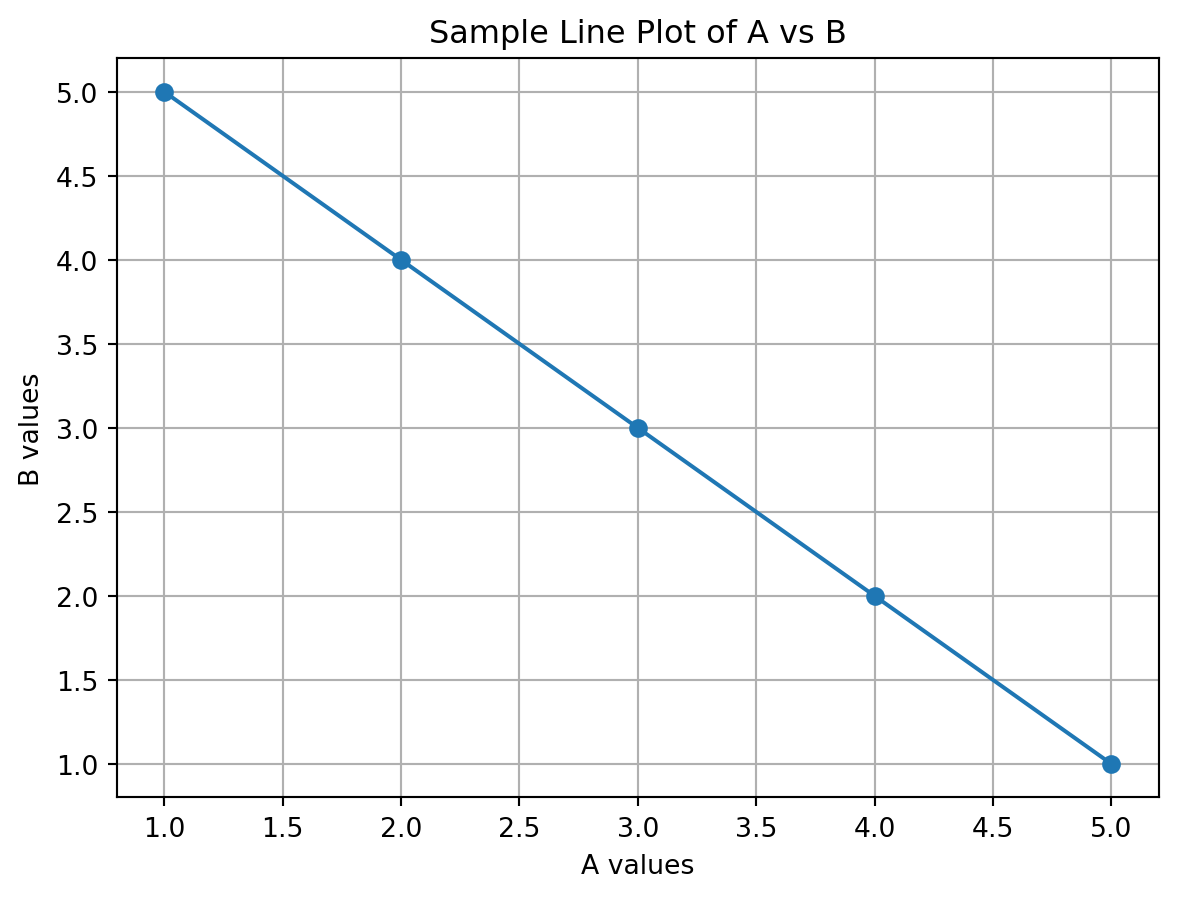
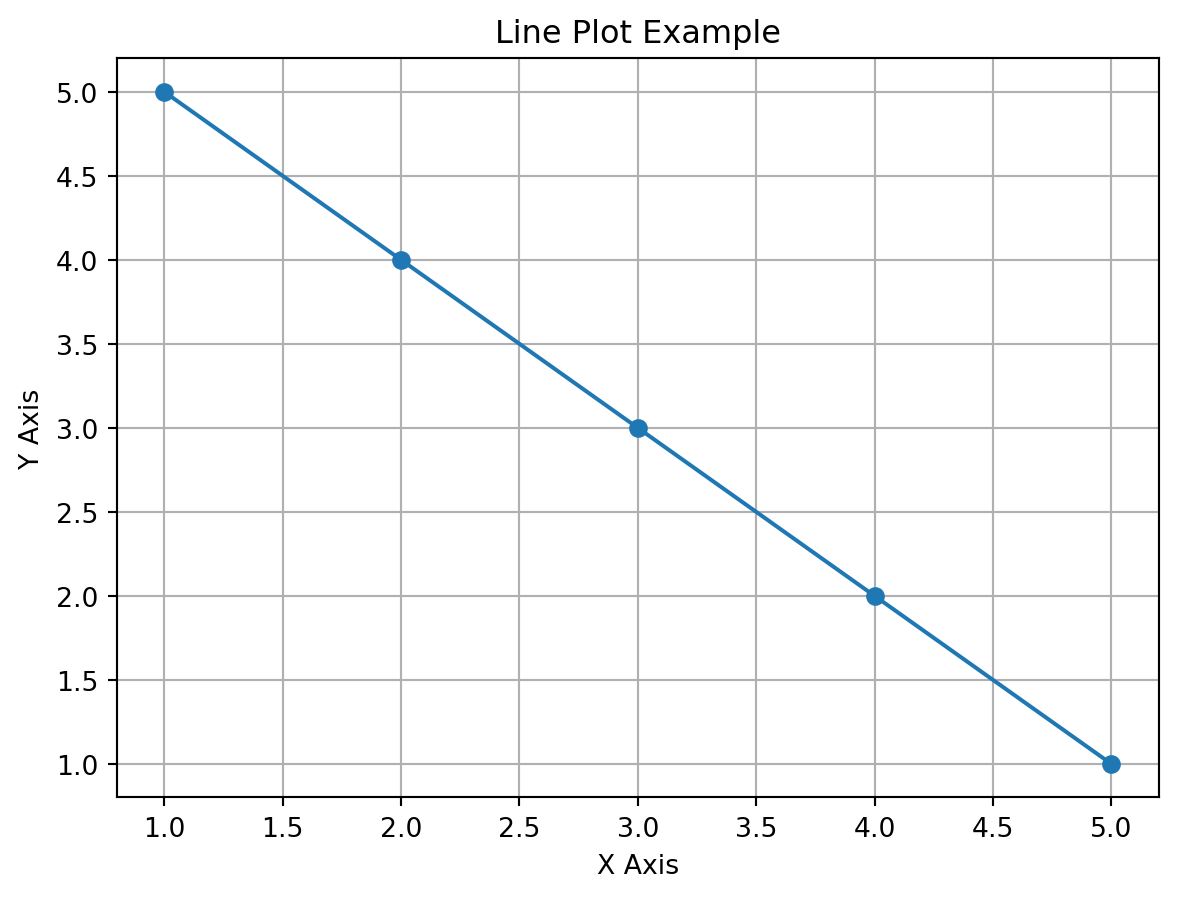
Final version of Project 1 with embedded video

Changed region(s): [[0.367, 0.0, 0.7341, 0.0624], [0.4894, 0.9354, 0.5811, 0.9978], [0.0, 0.4053, 0.0306, 0.5301]]

diff --git a/docs/projects/project1.html b/docs/projects/project1.html
@@ -7,7 +7,7 @@
 <meta name="viewport" content="width=device-width, initial-scale=1.0, user-scalable=yes">
 
 
-<title>Project 1: Data Analysis with Pandas – Conor-English.github.io</title>
+<title>Project 1: Predicting Breakout Footballers with Machine Learning – Conor-English.github.io</title>
 <style>
 code{white-space: pre-wrap;}
 span.smallcaps{font-variant: small-caps;}
@@ -158,9 +158,13 @@ pre > code.sourceCode > span > a:first-child::before { text-decoration: underlin
     <h2 id="toc-title">On this page</h2>
    
   <ul>
-  <li><a href="#overview" id="toc-overview" class="nav-link active" data-scroll-target="#overview">Overview</a></li>
-  <li><a href="#skills-demonstrated" id="toc-skills-demonstrated" class="nav-link" data-scroll-target="#skills-demonstrated">Skills Demonstrated</a></li>
-  <li><a href="#key-code-example" id="toc-key-code-example" class="nav-link" data-scroll-target="#key-code-example">Key Code Example</a>
+  <li><a href="#overview" id="toc-overview" class="nav-link active" data-scroll-target="#overview">⚽ Overview</a></li>
+  <li><a href="#skills-demonstrated" id="toc-skills-demonstrated" class="nav-link" data-scroll-target="#skills-demonstrated">🛠 Skills Demonstrated</a></li>
+  <li><a href="#dataset-and-features" id="toc-dataset-and-features" class="nav-link" data-scroll-target="#dataset-and-features">📊 Dataset and Features</a></li>
+  <li><a href="#model-pipeline" id="toc-model-pipeline" class="nav-link" data-scroll-target="#model-pipeline">🤖 Model Pipeline</a></li>
+  <li><a href="#interpretability-with-shap" id="toc-interpretability-with-shap" class="nav-link" data-scroll-target="#interpretability-with-shap">🔍 Interpretability with SHAP</a></li>
+  <li><a href="#download-files" id="toc-download-files" class="nav-link" data-scroll-target="#download-files">📦 Download Files</a></li>
+  <li><a href="#key-code-example" id="toc-key-code-example" class="nav-link" data-scroll-target="#key-code-example">🧪 Key Code Example</a>
   <ul class="collapse">
   <li><a href="#video-walkthrough" id="toc-video-walkthrough" class="nav-link" data-scroll-target="#video-walkthrough">🎬 Video Walkthrough</a></li>
   </ul></li>
@@ -172,7 +176,7 @@ pre > code.sourceCode > span > a:first-child::before { text-decoration: underlin
 
 <header id="title-block-header" class="quarto-title-block default">
 <div class="quarto-title">
-<div class="quarto-title-block"><div><h1 class="title">Project 1: Data Analysis with Pandas</h1><button type="button" class="btn code-tools-button dropdown-toggle" id="quarto-code-tools-menu" data-bs-toggle="dropdown" aria-expanded="false"><i class="bi"></i> Code</button><ul class="dropdown-menu dropdown-menu-end" aria-labelelledby="quarto-code-tools-menu"><li><a id="quarto-show-all-code" class="dropdown-item" href="javascript:void(0)" role="button">Show All Code</a></li><li><a id="quarto-hide-all-code" class="dropdown-item" href="javascript:void(0)" role="button">Hide All Code</a></li><li><hr class="dropdown-divider"></li><li><a id="quarto-view-source" class="dropdown-item" href="javascript:void(0)" role="button">View Source</a></li></ul></div></div>
+<div class="quarto-title-block"><div><h1 class="title">Project 1: Predicting Breakout Footballers with Machine Learning</h1><button type="button" class="btn code-tools-button dropdown-toggle" id="quarto-code-tools-menu" data-bs-toggle="dropdown" aria-expanded="false"><i class="bi"></i> Code</button><ul class="dropdown-menu dropdown-menu-end" aria-labelelledby="quarto-code-tools-menu"><li><a id="quarto-show-all-code" class="dropdown-item" href="javascript:void(0)" role="button">Show All Code</a></li><li><a id="quarto-hide-all-code" class="dropdown-item" href="javascript:void(0)" role="button">Hide All Code</a></li><li><hr class="dropdown-divider"></li><li><a id="quarto-view-source" class="dropdown-item" href="javascript:void(0)" role="button">View Source</a></li></ul></div></div>
 </div>
 
 
@@ -190,39 +194,103 @@ pre > code.sourceCode > span > a:first-child::before { text-decoration: underlin
 
 
 <section id="overview" class="level1">
-<h1>Overview</h1>
-<p>In this project, I analyzed real-world datasets using <strong>Python</strong> and <strong>Pandas</strong> to extract meaningful insights.</p>
+<h1>⚽ Overview</h1>
+<p>In this project, I built a machine learning pipeline to <strong>predict breakout football players</strong>—those expected to drastically improve their goals or assists in the coming season. This was done using real-world player statistics and advanced ML interpretability tools like SHAP.</p>
+<p>The project used <strong>over 10 million data points</strong> and statistics from <strong>2013 to April 2025</strong>, and was built to support recruitment workflows like those used by clubs such as Brighton or Liverpool.</p>
 </section>
 <section id="skills-demonstrated" class="level1">
-<h1>Skills Demonstrated</h1>
+<h1>🛠 Skills Demonstrated</h1>
 <ul>
-<li>Data Cleaning</li>
-<li>Data Manipulation</li>
-<li>Exploratory Data Analysis (EDA)</li>
+<li>Feature engineering on sports datasets<br>
+</li>
+<li>Label construction with domain-specific logic<br>
+</li>
+<li>Model selection and cross-validation<br>
+</li>
+<li>XGBoost classification<br>
+</li>
+<li>SHAP explainability and visual interpretation<br>
+</li>
+<li>Real-world forecasting for 2025/26 season</li>
+</ul>
+</section>
+<section id="dataset-and-features" class="level1">
+<h1>📊 Dataset and Features</h1>
+<p>The dataset came from <a href="https://www.transfermarkt.com/">Transfermarkt</a> via Kaggle and included:</p>
+<ul>
+<li>Player stats: goals, assists, minutes, appearances<br>
+</li>
+<li>Temporal metrics: prior season stats and growth<br>
+</li>
+<li>Per-90 stats and scaled features<br>
+</li>
+<li>Demographics: position, age, birth year</li>
+</ul>
+<p>Key features used: - <code>goal_growth</code>, <code>assist_growth</code><br>
+- <code>goals_per90</code>, <code>assists_per90</code><br>
+- <code>prev_goals</code>, <code>minutes_played</code>, <code>appearances</code></p>
+</section>
+<section id="model-pipeline" class="level1">
+<h1>🤖 Model Pipeline</h1>
+<ul>
+<li>Model: XGBoost Classifier<br>
+</li>
+<li>Training: 80/20 split with 5-fold CV<br>
+</li>
+<li>Performance:
+<ul>
+<li>Accuracy: <strong>91.03%</strong><br>
+</li>
+<li>F1-score (Breakout class): <strong>0.61</strong><br>
+</li>
+<li>Macro F1: <strong>0.78</strong><br>
+</li>
+<li>ROC AUC: <strong>&gt; 0.90</strong></li>
+</ul></li>
+</ul>
+<p>Evaluation visualizations include: - ROC curve<br>
+- Confusion matrix<br>
+- SHAP summary and importance plots<br>
+- Histogram of predicted breakout probabilities</p>
+</section>
+<section id="interpretability-with-shap" class="level1">
+<h1>🔍 Interpretability with SHAP</h1>
+<p>SHAP values revealed: - <code>goal_growth</code>, <code>assist_growth</code>, and <code>assists</code> were the <strong>top predictors</strong><br>
+- Visual plots showed how player features like minutes and appearances contribute to breakout probability<br>
+- SHAP dependence plots gave intuitive, position-specific breakdowns</p>
+</section>
+<section id="download-files" class="level1">
+<h1>📦 Download Files</h1>
+<ul>
+<li>🔗 <a href="../top_20_future_predicted_breakouts_2526.csv">Download future model predictions (Top 20)</a></li>
+<li>💾 <a href="../Future breakthrough model.ipynb">Download future breakout model source code</a></li>
 </ul>
 </section>
 <section id="key-code-example" class="level1">
-<h1>Key Code Example</h1>
-<div id="46febf76" class="cell" data-execution_count="1">
+<h1>🧪 Key Code Example</h1>
+<div id="fd690b56" class="cell" data-execution_count="1">
 <details class="code-fold">
 <summary>Show the code</summary>
 <div class="sourceCode cell-code" id="cb1"><pre class="sourceCode python code-with-copy"><code class="sourceCode python"><span id="cb1-1"><a href="#cb1-1" aria-hidden="true" tabindex="-1"></a><span class="im">import</span> pandas <span class="im">as</span> pd</span>
 <span id="cb1-2"><a href="#cb1-2" aria-hidden="true" tabindex="-1"></a><span class="im">import</span> matplotlib.pyplot <span class="im">as</span> plt</span>
 <span id="cb1-3"><a href="#cb1-3" aria-hidden="true" tabindex="-1"></a></span>
-<span id="cb1-4"><a href="#cb1-4" aria-hidden="true" tabindex="-1"></a>df <span class="op">=</span> pd.DataFrame({</span>
-<span id="cb1-5"><a href="#cb1-5" aria-hidden="true" tabindex="-1"></a>    <span class="st">"A"</span>: [<span class="dv">1</span>, <span class="dv">2</span>, <span class="dv">3</span>, <span class="dv">4</span>, <span class="dv">5</span>],</span>
-<span id="cb1-6"><a href="#cb1-6" aria-hidden="true" tabindex="-1"></a>    <span class="st">"B"</span>: [<span class="dv">5</span>, <span class="dv">4</span>, <span class="dv">3</span>, <span class="dv">2</span>, <span class="dv">1</span>]</span>
-<span id="cb1-7"><a href="#cb1-7" aria-hidden="true" tabindex="-1"></a>})</span>
-<span id="cb1-8"><a href="#cb1-8" aria-hidden="true" tabindex="-1"></a></span>
-<span id="cb1-9"><a href="#cb1-9" aria-hidden="true" tabindex="-1"></a>summary <span class="op">=</span> df.describe()</span>
-<span id="cb1-10"><a href="#cb1-10" aria-hidden="true" tabindex="-1"></a>summary</span>
-<span id="cb1-11"><a href="#cb1-11" aria-hidden="true" tabindex="-1"></a></span>
-<span id="cb1-12"><a href="#cb1-12" aria-hidden="true" tabindex="-1"></a>plt.plot(df[<span class="st">"A"</span>], df[<span class="st">"B"</span>], marker<span class="op">=</span><span class="st">"o"</span>)</span>
-<span id="cb1-13"><a href="#cb1-13" aria-hidden="true" tabindex="-1"></a>plt.title(<span class="st">"Sample Line Plot of A vs B"</span>)</span>
-<span id="cb1-14"><a href="#cb1-14" aria-hidden="true" tabindex="-1"></a>plt.xlabel(<span class="st">"A values"</span>)</span>
-<span id="cb1-15"><a href="#cb1-15" aria-hidden="true" tabindex="-1"></a>plt.ylabel(<span class="st">"B values"</span>)</span>
-<span id="cb1-16"><a href="#cb1-16" aria-hidden="true" tabindex="-1"></a>plt.grid(<span class="va">True</span>)</span>
-<span id="cb1-17"><a href="#cb1-17" aria-hidden="true" tabindex="-1"></a>plt.show()</span></code><button title="Copy to Clipboard" class="code-copy-button"><i class="bi"></i></button></pre></div>
+<span id="cb1-4"><a href="#cb1-4" aria-hidden="true" tabindex="-1"></a><span class="co"># Sample player data</span></span>
+<span id="cb1-5"><a href="#cb1-5" aria-hidden="true" tabindex="-1"></a>df <span class="op">=</span> pd.DataFrame({</span>
+<span id="cb1-6"><a href="#cb1-6" aria-hidden="true" tabindex="-1"></a>    <span class="st">"A"</span>: [<span class="dv">1</span>, <span class="dv">2</span>, <span class="dv">3</span>, <span class="dv">4</span>, <span class="dv">5</span>],</span>
+<span id="cb1-7"><a href="#cb1-7" aria-hidden="true" tabindex="-1"></a>    <span class="st">"B"</span>: [<span class="dv">5</span>, <span class="dv">4</span>, <span class="dv">3</span>, <span class="dv">2</span>, <span class="dv">1</span>]</span>
+<span id="cb1-8"><a href="#cb1-8" aria-hidden="true" tabindex="-1"></a>})</span>
+<span id="cb1-9"><a href="#cb1-9" aria-hidden="true" tabindex="-1"></a></span>
+<span id="cb1-10"><a href="#cb1-10" aria-hidden="true" tabindex="-1"></a><span class="co"># Quick stats summary</span></span>
+<span id="cb1-11"><a href="#cb1-11" aria-hidden="true" tabindex="-1"></a>summary <span class="op">=</span> df.describe()</span>
+<span id="cb1-12"><a href="#cb1-12" aria-hidden="true" tabindex="-1"></a>summary</span>
+<span id="cb1-13"><a href="#cb1-13" aria-hidden="true" tabindex="-1"></a></span>
+<span id="cb1-14"><a href="#cb1-14" aria-hidden="true" tabindex="-1"></a><span class="co"># Sample plot</span></span>
+<span id="cb1-15"><a href="#cb1-15" aria-hidden="true" tabindex="-1"></a>plt.plot(df[<span class="st">"A"</span>], df[<span class="st">"B"</span>], marker<span class="op">=</span><span class="st">"o"</span>)</span>
+<span id="cb1-16"><a href="#cb1-16" aria-hidden="true" tabindex="-1"></a>plt.title(<span class="st">"Line Plot Example"</span>)</span>
+<span id="cb1-17"><a href="#cb1-17" aria-hidden="true" tabindex="-1"></a>plt.xlabel(<span class="st">"X Axis"</span>)</span>
+<span id="cb1-18"><a href="#cb1-18" aria-hidden="true" tabindex="-1"></a>plt.ylabel(<span class="st">"Y Axis"</span>)</span>
+<span id="cb1-19"><a href="#cb1-19" aria-hidden="true" tabindex="-1"></a>plt.grid(<span class="va">True</span>)</span>
+<span id="cb1-20"><a href="#cb1-20" aria-hidden="true" tabindex="-1"></a>plt.show()</span></code><button title="Copy to Clipboard" class="code-copy-button"><i class="bi"></i></button></pre></div>
 </details>
 <div class="cell-output cell-output-display">
 <div>
@@ -713,7 +781,7 @@ window.document.addEventListener("DOMContentLoaded", function (event) {
 });
 </script><div class="modal fade" id="quarto-embedded-source-code-modal" tabindex="-1" aria-labelledby="quarto-embedded-source-code-modal-label" aria-hidden="true"><div class="modal-dialog modal-dialog-scrollable"><div class="modal-content"><div class="modal-header"><h5 class="modal-title" id="quarto-embedded-source-code-modal-label">Source Code</h5><button class="btn-close" data-bs-dismiss="modal"></button></div><div class="modal-body"><div class="">
 <div class="sourceCode" id="cb2" data-shortcodes="false"><pre class="sourceCode markdown code-with-copy"><code class="sourceCode markdown"><span id="cb2-1"><a href="#cb2-1" aria-hidden="true" tabindex="-1"></a><span class="co">---</span></span>
-<span id="cb2-2"><a href="#cb2-2" aria-hidden="true" tabindex="-1"></a><span class="an">title:</span><span class="co"> "Project 1: Data Analysis with Pandas"</span></span>
+<span id="cb2-2"><a href="#cb2-2" aria-hidden="true" tabindex="-1"></a><span class="an">title:</span><span class="co"> "Project 1: Predicting Breakout Footballers with Machine Learning"</span></span>
 <span id="cb2-3"><a href="#cb2-3" aria-hidden="true" tabindex="-1"></a><span class="an">format:</span></span>
 <span id="cb2-4"><a href="#cb2-4" aria-hidden="true" tabindex="-1"></a><span class="co">  html:</span></span>
 <span id="cb2-5"><a href="#cb2-5" aria-hidden="true" tabindex="-1"></a><span class="co">    code-fold: true</span></span>
@@ -724,40 +792,91 @@ window.document.addEventListener("DOMContentLoaded", function (event) {
 <span id="cb2-10"><a href="#cb2-10" aria-hidden="true" tabindex="-1"></a><span class="co">  eval: true</span></span>
 <span id="cb2-11"><a href="#cb2-11" aria-hidden="true" tabindex="-1"></a><span class="co">---</span></span>
 <span id="cb2-12"><a href="#cb2-12" aria-hidden="true" tabindex="-1"></a></span>
-<span id="cb2-13"><a href="#cb2-13" aria-hidden="true" tabindex="-1"></a><span class="fu"># Overview</span></span>
-<span id="cb2-14"><a href="#cb2-14" aria-hidden="true" tabindex="-1"></a>In this project, I analyzed real-world datasets using **Python** and **Pandas** to extract meaningful insights.</span>
-<span id="cb2-15"><a href="#cb2-15" aria-hidden="true" tabindex="-1"></a></span>
-<span id="cb2-16"><a href="#cb2-16" aria-hidden="true" tabindex="-1"></a><span class="fu"># Skills Demonstrated</span></span>
-<span id="cb2-17"><a href="#cb2-17" aria-hidden="true" tabindex="-1"></a><span class="ss">- </span>Data Cleaning</span>
-<span id="cb2-18"><a href="#cb2-18" aria-hidden="true" tabindex="-1"></a><span class="ss">- </span>Data Manipulation</span>
-<span id="cb2-19"><a href="#cb2-19" aria-hidden="true" tabindex="-1"></a><span class="ss">- </span>Exploratory Data Analysis (EDA)</span>
+<span id="cb2-13"><a href="#cb2-13" aria-hidden="true" tabindex="-1"></a><span class="fu"># ⚽ Overview</span></span>
+<span id="cb2-14"><a href="#cb2-14" aria-hidden="true" tabindex="-1"></a></span>
+<span id="cb2-15"><a href="#cb2-15" aria-hidden="true" tabindex="-1"></a>In this project, I built a machine learning pipeline to **predict breakout football players**—those expected to drastically improve their goals or assists in the coming season. This was done using real-world player statistics and advanced ML interpretability tools like SHAP.</span>
+<span id="cb2-16"><a href="#cb2-16" aria-hidden="true" tabindex="-1"></a></span>
+<span id="cb2-17"><a href="#cb2-17" aria-hidden="true" tabindex="-1"></a>The project used **over 10 million data points** and statistics from **2013 to April 2025**, and was built to support recruitment workflows like those used by clubs such as Brighton or Liverpool.</span>
+<span id="cb2-18"><a href="#cb2-18" aria-hidden="true" tabindex="-1"></a></span>
+<span id="cb2-19"><a href="#cb2-19" aria-hidden="true" tabindex="-1"></a><span class="fu"># 🛠 Skills Demonstrated</span></span>
 <span id="cb2-20"><a href="#cb2-20" aria-hidden="true" tabindex="-1"></a></span>
-<span id="cb2-21"><a href="#cb2-21" aria-hidden="true" tabindex="-1"></a><span class="fu"># Key Code Example</span></span>
-<span id="cb2-22"><a href="#cb2-22" aria-hidden="true" tabindex="-1"></a></span>
-<span id="cb2-25"><a href="#cb2-25" aria-hidden="true" tabindex="-1"></a><span class="in">```{python}</span></span>
-<span id="cb2-26"><a href="#cb2-26" aria-hidden="true" tabindex="-1"></a><span class="im">import</span> pandas <span class="im">as</span> pd</span>
-<span id="cb2-27"><a href="#cb2-27" aria-hidden="true" tabindex="-1"></a><span class="im">import</span> matplotlib.pyplot <span class="im">as</span> plt</span>
-<span id="cb2-28"><a href="#cb2-28" aria-hidden="true" tabindex="-1"></a></span>
-<span id="cb2-29"><a href="#cb2-29" aria-hidden="true" tabindex="-1"></a>df <span class="op">=</span> pd.DataFrame({</span>
-<span id="cb2-30"><a href="#cb2-30" aria-hidden="true" tabindex="-1"></a>    <span class="st">"A"</span>: [<span class="dv">1</span>, <span class="dv">2</span>, <span class="dv">3</span>, <span class="dv">4</span>, <span class="dv">5</span>],</span>
-<span id="cb2-31"><a href="#cb2-31" aria-hidden="true" tabindex="-1"></a>    <span class="st">"B"</span>: [<span class="dv">5</span>, <span class="dv">4</span>, <span class="dv">3</span>, <span class="dv">2</span>, <span class="dv">1</span>]</span>
-<span id="cb2-32"><a href="#cb2-32" aria-hidden="true" tabindex="-1"></a>})</span>
-<span id="cb2-33"><a href="#cb2-33" aria-hidden="true" tabindex="-1"></a></span>
-<span id="cb2-34"><a href="#cb2-34" aria-hidden="true" tabindex="-1"></a>summary <span class="op">=</span> df.describe()</span>
-<span id="cb2-35"><a href="#cb2-35" aria-hidden="true" tabindex="-1"></a>summary</span>
+<span id="cb2-21"><a href="#cb2-21" aria-hidden="true" tabindex="-1"></a><span class="ss">- </span>Feature engineering on sports datasets  </span>
+<span id="cb2-22"><a href="#cb2-22" aria-hidden="true" tabindex="-1"></a><span class="ss">- </span>Label construction with domain-specific logic  </span>
+<span id="cb2-23"><a href="#cb2-23" aria-hidden="true" tabindex="-1"></a><span class="ss">- </span>Model selection and cross-validation  </span>
+<span id="cb2-24"><a href="#cb2-24" aria-hidden="true" tabindex="-1"></a><span class="ss">- </span>XGBoost classification  </span>
+<span id="cb2-25"><a href="#cb2-25" aria-hidden="true" tabindex="-1"></a><span class="ss">- </span>SHAP explainability and visual interpretation  </span>
+<span id="cb2-26"><a href="#cb2-26" aria-hidden="true" tabindex="-1"></a><span class="ss">- </span>Real-world forecasting for 2025/26 season  </span>
+<span id="cb2-27"><a href="#cb2-27" aria-hidden="true" tabindex="-1"></a></span>
+<span id="cb2-28"><a href="#cb2-28" aria-hidden="true" tabindex="-1"></a><span class="fu"># 📊 Dataset and Features</span></span>
+<span id="cb2-29"><a href="#cb2-29" aria-hidden="true" tabindex="-1"></a></span>
+<span id="cb2-30"><a href="#cb2-30" aria-hidden="true" tabindex="-1"></a>The dataset came from <span class="co">[</span><span class="ot">Transfermarkt</span><span class="co">](https://www.transfermarkt.com/)</span> via Kaggle and included:</span>
+<span id="cb2-31"><a href="#cb2-31" aria-hidden="true" tabindex="-1"></a></span>
+<span id="cb2-32"><a href="#cb2-32" aria-hidden="true" tabindex="-1"></a><span class="ss">- </span>Player stats: goals, assists, minutes, appearances  </span>
+<span id="cb2-33"><a href="#cb2-33" aria-hidden="true" tabindex="-1"></a><span class="ss">- </span>Temporal metrics: prior season stats and growth  </span>
+<span id="cb2-34"><a href="#cb2-34" aria-hidden="true" tabindex="-1"></a><span class="ss">- </span>Per-90 stats and scaled features  </span>
+<span id="cb2-35"><a href="#cb2-35" aria-hidden="true" tabindex="-1"></a><span class="ss">- </span>Demographics: position, age, birth year  </span>
 <span id="cb2-36"><a href="#cb2-36" aria-hidden="true" tabindex="-1"></a></span>
-<span id="cb2-37"><a href="#cb2-37" aria-hidden="true" tabindex="-1"></a>plt.plot(df[<span class="st">"A"</span>], df[<span class="st">"B"</span>], marker<span class="op">=</span><span class="st">"o"</span>)</span>
-<span id="cb2-38"><a href="#cb2-38" aria-hidden="true" tabindex="-1"></a>plt.title(<span class="st">"Sample Line Plot of A vs B"</span>)</span>
-<span id="cb2-39"><a href="#cb2-39" aria-hidden="true" tabindex="-1"></a>plt.xlabel(<span class="st">"A values"</span>)</span>
-<span id="cb2-40"><a href="#cb2-40" aria-hidden="true" tabindex="-1"></a>plt.ylabel(<span class="st">"B values"</span>)</span>
-<span id="cb2-41"><a href="#cb2-41" aria-hidden="true" tabindex="-1"></a>plt.grid(<span class="va">True</span>)</span>
-<span id="cb2-42"><a href="#cb2-42" aria-hidden="true" tabindex="-1"></a>plt.show()</span>
-<span id="cb2-43"><a href="#cb2-43" aria-hidden="true" tabindex="-1"></a><span class="in">```</span> </span>
-<span id="cb2-44"><a href="#cb2-44" aria-hidden="true" tabindex="-1"></a></span>
-<span id="cb2-45"><a href="#cb2-45" aria-hidden="true" tabindex="-1"></a></span>
-<span id="cb2-46"><a href="#cb2-46" aria-hidden="true" tabindex="-1"></a><span class="fu">## 🎬 Video Walkthrough</span></span>
-<span id="cb2-47"><a href="#cb2-47" aria-hidden="true" tabindex="-1"></a></span>
-<span id="cb2-48"><a href="#cb2-48" aria-hidden="true" tabindex="-1"></a>&lt;iframe width="100%" height="400" src="https://www.youtube.com/embed/PxgVFp5a0E4?start=14" title="Data Analysis with Pandas - YouTube" frameborder="0" allowfullscreen&gt;&lt;/iframe&gt;</span>
+<span id="cb2-37"><a href="#cb2-37" aria-hidden="true" tabindex="-1"></a>Key features used:</span>
+<span id="cb2-38"><a href="#cb2-38" aria-hidden="true" tabindex="-1"></a><span class="ss">- </span><span class="in">`goal_growth`</span>, <span class="in">`assist_growth`</span>  </span>
+<span id="cb2-39"><a href="#cb2-39" aria-hidden="true" tabindex="-1"></a><span class="ss">- </span><span class="in">`goals_per90`</span>, <span class="in">`assists_per90`</span>  </span>
+<span id="cb2-40"><a href="#cb2-40" aria-hidden="true" tabindex="-1"></a><span class="ss">- </span><span class="in">`prev_goals`</span>, <span class="in">`minutes_played`</span>, <span class="in">`appearances`</span></span>
+<span id="cb2-41"><a href="#cb2-41" aria-hidden="true" tabindex="-1"></a></span>
+<span id="cb2-42"><a href="#cb2-42" aria-hidden="true" tabindex="-1"></a><span class="fu"># 🤖 Model Pipeline</span></span>
+<span id="cb2-43"><a href="#cb2-43" aria-hidden="true" tabindex="-1"></a></span>
+<span id="cb2-44"><a href="#cb2-44" aria-hidden="true" tabindex="-1"></a><span class="ss">- </span>Model: XGBoost Classifier  </span>
+<span id="cb2-45"><a href="#cb2-45" aria-hidden="true" tabindex="-1"></a><span class="ss">- </span>Training: 80/20 split with 5-fold CV  </span>
+<span id="cb2-46"><a href="#cb2-46" aria-hidden="true" tabindex="-1"></a><span class="ss">- </span>Performance:  </span>
+<span id="cb2-47"><a href="#cb2-47" aria-hidden="true" tabindex="-1"></a><span class="ss">  - </span>Accuracy: **91.03%**  </span>
+<span id="cb2-48"><a href="#cb2-48" aria-hidden="true" tabindex="-1"></a><span class="ss">  - </span>F1-score (Breakout class): **0.61**  </span>
+<span id="cb2-49"><a href="#cb2-49" aria-hidden="true" tabindex="-1"></a><span class="ss">  - </span>Macro F1: **0.78**  </span>
+<span id="cb2-50"><a href="#cb2-50" aria-hidden="true" tabindex="-1"></a><span class="ss">  - </span>ROC AUC: **&gt; 0.90**  </span>
+<span id="cb2-51"><a href="#cb2-51" aria-hidden="true" tabindex="-1"></a></span>
+<span id="cb2-52"><a href="#cb2-52" aria-hidden="true" tabindex="-1"></a>Evaluation visualizations include:</span>
+<span id="cb2-53"><a href="#cb2-53" aria-hidden="true" tabindex="-1"></a><span class="ss">- </span>ROC curve  </span>
+<span id="cb2-54"><a href="#cb2-54" aria-hidden="true" tabindex="-1"></a><span class="ss">- </span>Confusion matrix  </span>
+<span id="cb2-55"><a href="#cb2-55" aria-hidden="true" tabindex="-1"></a><span class="ss">- </span>SHAP summary and importance plots  </span>
+<span id="cb2-56"><a href="#cb2-56" aria-hidden="true" tabindex="-1"></a><span class="ss">- </span>Histogram of predicted breakout probabilities  </span>
+<span id="cb2-57"><a href="#cb2-57" aria-hidden="true" tabindex="-1"></a></span>
+<span id="cb2-58"><a href="#cb2-58" aria-hidden="true" tabindex="-1"></a><span class="fu"># 🔍 Interpretability with SHAP</span></span>
+<span id="cb2-59"><a href="#cb2-59" aria-hidden="true" tabindex="-1"></a></span>
+<span id="cb2-60"><a href="#cb2-60" aria-hidden="true" tabindex="-1"></a>SHAP values revealed:</span>
+<span id="cb2-61"><a href="#cb2-61" aria-hidden="true" tabindex="-1"></a><span class="ss">- </span><span class="in">`goal_growth`</span>, <span class="in">`assist_growth`</span>, and <span class="in">`assists`</span> were the **top predictors**  </span>
+<span id="cb2-62"><a href="#cb2-62" aria-hidden="true" tabindex="-1"></a><span class="ss">- </span>Visual plots showed how player features like minutes and appearances contribute to breakout probability  </span>
+<span id="cb2-63"><a href="#cb2-63" aria-hidden="true" tabindex="-1"></a><span class="ss">- </span>SHAP dependence plots gave intuitive, position-specific breakdowns  </span>
+<span id="cb2-64"><a href="#cb2-64" aria-hidden="true" tabindex="-1"></a></span>
+<span id="cb2-65"><a href="#cb2-65" aria-hidden="true" tabindex="-1"></a><span class="fu"># 📦 Download Files</span></span>
+<span id="cb2-66"><a href="#cb2-66" aria-hidden="true" tabindex="-1"></a></span>
+<span id="cb2-67"><a href="#cb2-67" aria-hidden="true" tabindex="-1"></a><span class="ss">- </span>🔗 <span class="co">[</span><span class="ot">Download future model predictions (Top 20)</span><span class="co">](../top_20_future_predicted_breakouts_2526.csv)</span></span>
+<span id="cb2-68"><a href="#cb2-68" aria-hidden="true" tabindex="-1"></a><span class="ss">- </span>💾 <span class="co">[</span><span class="ot">Download future breakout model source code</span><span class="co">](../Future%20breakthrough%20model.ipynb)</span></span>
+<span id="cb2-69"><a href="#cb2-69" aria-hidden="true" tabindex="-1"></a></span>
+<span id="cb2-70"><a href="#cb2-70" aria-hidden="true" tabindex="-1"></a><span class="fu"># 🧪 Key Code Example</span></span>
+<span id="cb2-71"><a href="#cb2-71" aria-hidden="true" tabindex="-1"></a></span>
+<span id="cb2-74"><a href="#cb2-74" aria-hidden="true" tabindex="-1"></a><span class="in">```{python}</span></span>
+<span id="cb2-75"><a href="#cb2-75" aria-hidden="true" tabindex="-1"></a><span class="im">import</span> pandas <span class="im">as</span> pd</span>
+<span id="cb2-76"><a href="#cb2-76" aria-hidden="true" tabindex="-1"></a><span class="im">import</span> matplotlib.pyplot <span class="im">as</span> plt</span>
+<span id="cb2-77"><a href="#cb2-77" aria-hidden="true" tabindex="-1"></a></span>
+<span id="cb2-78"><a href="#cb2-78" aria-hidden="true" tabindex="-1"></a><span class="co"># Sample player data</span></span>
+<span id="cb2-79"><a href="#cb2-79" aria-hidden="true" tabindex="-1"></a>df <span class="op">=</span> pd.DataFrame({</span>
+<span id="cb2-80"><a href="#cb2-80" aria-hidden="true" tabindex="-1"></a>    <span class="st">"A"</span>: [<span class="dv">1</span>, <span class="dv">2</span>, <span class="dv">3</span>, <span class="dv">4</span>, <span class="dv">5</span>],</span>
+<span id="cb2-81"><a href="#cb2-81" aria-hidden="true" tabindex="-1"></a>    <span class="st">"B"</span>: [<span class="dv">5</span>, <span class="dv">4</span>, <span class="dv">3</span>, <span class="dv">2</span>, <span class="dv">1</span>]</span>
+<span id="cb2-82"><a href="#cb2-82" aria-hidden="true" tabindex="-1"></a>})</span>
+<span id="cb2-83"><a href="#cb2-83" aria-hidden="true" tabindex="-1"></a></span>
+<span id="cb2-84"><a href="#cb2-84" aria-hidden="true" tabindex="-1"></a><span class="co"># Quick stats summary</span></span>
+<span id="cb2-85"><a href="#cb2-85" aria-hidden="true" tabindex="-1"></a>summary <span class="op">=</span> df.describe()</span>
+<span id="cb2-86"><a href="#cb2-86" aria-hidden="true" tabindex="-1"></a>summary</span>
+<span id="cb2-87"><a href="#cb2-87" aria-hidden="true" tabindex="-1"></a></span>
+<span id="cb2-88"><a href="#cb2-88" aria-hidden="true" tabindex="-1"></a><span class="co"># Sample plot</span></span>
+<span id="cb2-89"><a href="#cb2-89" aria-hidden="true" tabindex="-1"></a>plt.plot(df[<span class="st">"A"</span>], df[<span class="st">"B"</span>], marker<span class="op">=</span><span class="st">"o"</span>)</span>
+<span id="cb2-90"><a href="#cb2-90" aria-hidden="true" tabindex="-1"></a>plt.title(<span class="st">"Line Plot Example"</span>)</span>
+<span id="cb2-91"><a href="#cb2-91" aria-hidden="true" tabindex="-1"></a>plt.xlabel(<span class="st">"X Axis"</span>)</span>
+<span id="cb2-92"><a href="#cb2-92" aria-hidden="true" tabindex="-1"></a>plt.ylabel(<span class="st">"Y Axis"</span>)</span>
+<span id="cb2-93"><a href="#cb2-93" aria-hidden="true" tabindex="-1"></a>plt.grid(<span class="va">True</span>)</span>
+<span id="cb2-94"><a href="#cb2-94" aria-hidden="true" tabindex="-1"></a>plt.show()</span>
+<span id="cb2-95"><a href="#cb2-95" aria-hidden="true" tabindex="-1"></a><span class="in">```</span></span>
+<span id="cb2-96"><a href="#cb2-96" aria-hidden="true" tabindex="-1"></a></span>
+<span id="cb2-97"><a href="#cb2-97" aria-hidden="true" tabindex="-1"></a><span class="fu">## 🎬 Video Walkthrough</span></span>
+<span id="cb2-98"><a href="#cb2-98" aria-hidden="true" tabindex="-1"></a></span>
+<span id="cb2-99"><a href="#cb2-99" aria-hidden="true" tabindex="-1"></a>&lt;iframe width="100%" height="400" src="https://www.youtube.com/embed/PxgVFp5a0E4?start=14" title="Data Analysis with Pandas - YouTube" frameborder="0" allowfullscreen&gt;&lt;/iframe&gt;</span>
 </code><button title="Copy to Clipboard" class="code-copy-button" data-in-quarto-modal=""><i class="bi"></i></button></pre></div>
 </div></div></div></div></div>
 </div> <!-- /content -->

diff --git a/docs/projects/project2.html b/docs/projects/project2.html
@@ -200,7 +200,7 @@ pre > code.sourceCode > span > a:first-child::before { text-decoration: underlin
 </section>
 <section id="key-code-example" class="level1">
 <h1>Key Code Example</h1>
-<div id="1382f466" class="cell" data-execution_count="1">
+<div id="a42126d1" class="cell" data-execution_count="1">
 <div class="sourceCode cell-code" id="cb1"><pre class="sourceCode python code-with-copy"><code class="sourceCode python"><span id="cb1-1"><a href="#cb1-1" aria-hidden="true" tabindex="-1"></a><span class="co"># Import Libraries</span></span>
 <span id="cb1-2"><a href="#cb1-2" aria-hidden="true" tabindex="-1"></a><span class="im">import</span> numpy <span class="im">as</span> np</span>
 <span id="cb1-3"><a href="#cb1-3" aria-hidden="true" tabindex="-1"></a><span class="im">import</span> pandas <span class="im">as</span> pd</span>

diff --git a/docs/projects/project3.html b/docs/projects/project3.html
@@ -200,7 +200,7 @@ pre > code.sourceCode > span > a:first-child::before { text-decoration: underlin
 </section>
 <section id="key-code-example" class="level1">
 <h1>Key Code Example</h1>
-<div id="d912223e" class="cell" data-execution_count="1">
+<div id="5b078c72" class="cell" data-execution_count="1">
 <div class="sourceCode cell-code" id="cb1"><pre class="sourceCode python code-with-copy"><code class="sourceCode python"><span id="cb1-1"><a href="#cb1-1" aria-hidden="true" tabindex="-1"></a><span class="co"># Import Libraries</span></span>
 <span id="cb1-2"><a href="#cb1-2" aria-hidden="true" tabindex="-1"></a><span class="im">import</span> requests</span>
 <span id="cb1-3"><a href="#cb1-3" aria-hidden="true" tabindex="-1"></a><span class="im">from</span> bs4 <span class="im">import</span> BeautifulSoup</span>
